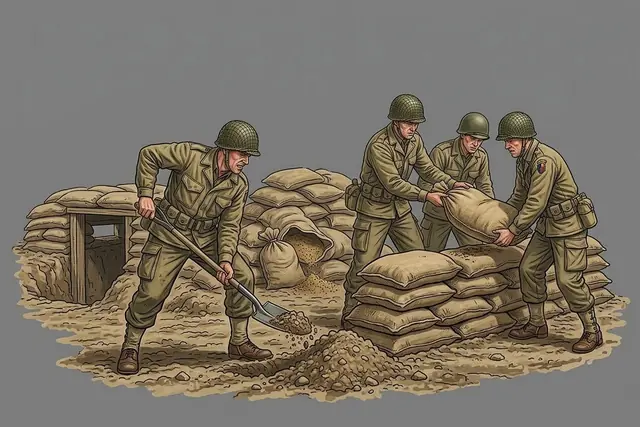
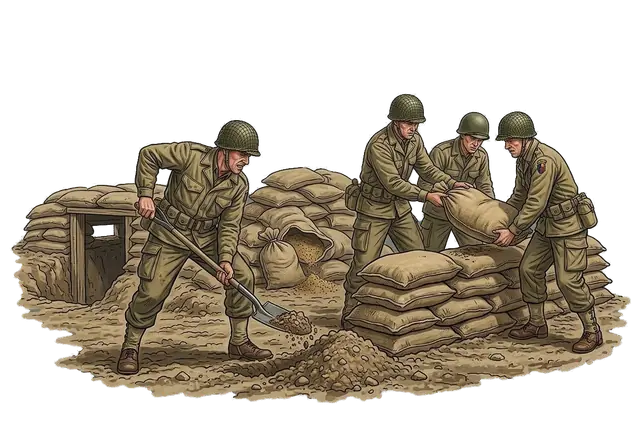
feat: card-art removes a flat grey background; Explosives, Reposition, Fortify and Spotter paintings cut out

diff --git a/CLAUDE.md b/CLAUDE.md
@@ -18,7 +18,7 @@ The app has to work in desktop browsers **and on Android tablets** (Chrome), in 
 
 ## Deploy
 Every push to `main` publishes to GitHub Pages at https://harman440.github.io/m44-sim/ (`.github/workflows/deploy.yml`: typecheck, tests, `vite build --base=/m44-sim/`). The tablet installs the app from there. Keep asset URLs relative to the base (import assets, or use `import.meta.env.BASE_URL`), never a hard-coded `/…` path, or they break under `/m44-sim/`.
-- `npm run card-art -- images/<name>.png [maxWidth]`: make a card painting, `src/assets/cards/<name>.webp`, from a large original PNG or JPEG; an image without transparency (any JPEG) has its drawn-in checkerboard background removed, or its white background faded out when its border is all white. The originals live in `images/` at the root, which git ignores
+- `npm run card-art -- images/<name>.png [maxWidth]`: make a card painting, `src/assets/cards/<name>.webp`, from a large original PNG or JPEG; an image without transparency (any JPEG) has its drawn-in checkerboard background removed, or its white background faded out when its border is all white, or a flat darker grey background (its border all one colour) taken out with a thin soft edge. The originals live in `images/` at the root, which git ignores
 - `npm run icons`: regenerate the app icon PNGs from `public/icons/icon.svg`
 - `npm run board [-- <part of a name>]`: build the scenarios' board art from their terrain, every board listed in `scripts/boards.json` (its terrain file in `src/data/boards/`, which `scenarios.ts` imports too, the image to write, `drawn`: terrain to draw in code instead of painting it, `river` (with its bridges) or `hedgerow`, and `separateHills`: each hill on its own tile instead of joined into ridges). The base is the empty board (`scripts/board-art/empty-board.webp`, its grid measured at the top of the script) cropped to the edges of its hex grid, the box the app lays the image in, at its full size (2435×1514). Painted terrain comes from the tile library, `scripts/board-art/tiles/<terrain>/`: one hex per image, filling its width, at any resolution; each hex gets one of its terrain's tiles, turned 60° a random number of times (seeded by the hex). A river tile's name starts with the edges its river joins (0 = east, clockwise: `3-0.webp` runs west to east) and it's turned to join the river's edges; a painted bridge is a river tile with `board-art/pieces/bridge.webp` laid across it. A hill next to another hill is joined to it into a ridge (`scripts/joined-hills.mjs`): the plateau runs out through each shared edge (the lakes' outline, `shoreCurves` in `src/boardArt/terrainTiles.mjs`, with a wider neck), the hill tile's cliff ring is unrolled along it, and the plateau and `board-art/textures/grass.webp` are laid across the whole board so they carry over the hex lines; a lone hill keeps its tile. Lakes, and drawn rivers, bridges and hedgerows, come from `src/boardArt/terrainTiles.mjs` (a river flowing through the edges it shares with the next river or bridge hexes, a lake joining its lake neighbours); the frame round the grid is put back over the new hexes. The barbed wire and sandbags pieces aren't part of the board art (they change in the game): they're `src/assets/pieces/*.webp`, drawn on the hex by `BarbedWireArt` and `SandbagsArt`, each image the hex's box with the piece where it sits. Which art each hex gets (tile, turn, river edges, lake edges, ridges) is planned in `src/boardArt/boardPlan.mjs`, shared with the app; the script also writes the app's smaller empty board, `src/assets/board-art/empty-board.webp`
 
